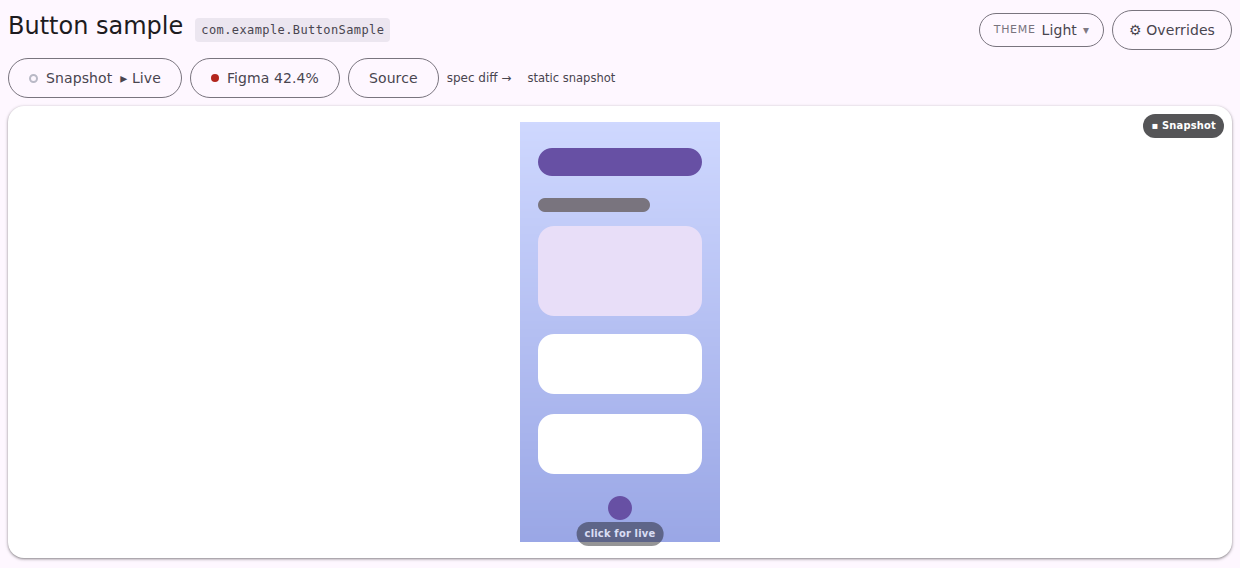
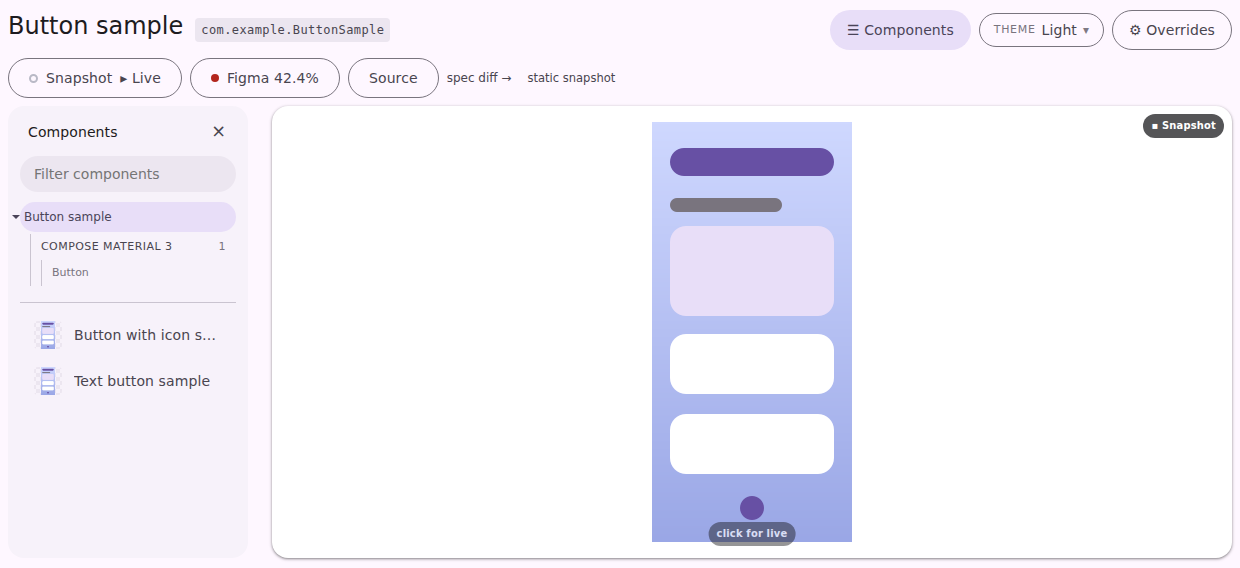
fix(serve): put a samples page's code beside the render's card, not inside it
On the samples lane the stage was one card holding both, so the page read as a
picture with a listing in the right half of its frame — two views of one thing.
They are not: the code is the subject and the render is what it produces.

The stage gives up its own surface in this lane — background, padding, shadow,
min-height — and the render element takes them. The stage stays the flex row
that puts the two side by side; it is only invisible now, so the card hugs the
render and the code sits next to it.

Applied to the render elements rather than to a new wrapper: the stage has no
inner one, and adding it would move every `.cp-stage > #cp-img` rule and the
script selectors that match them. The list covers what a samples page can paint
into — the snapshot image, the live canvas, the motion image.

Two details that are not obvious:

- the bg-theme pair (#1d1d20 / #fff) has to move onto the render element as
  well, and at the specificity those rules already use or they win. Without it
  the lane's card stayed the container colour while every other page painted a
  known field, and a light-on-transparent Wear render went unreadable in exactly
  the catalog this lane exists for;
- no `min-height` on the render. On a replaced element that stretches the
  picture to the box rather than padding around it, and the stage's 220px floor
  existed to stop an empty card collapsing, not to enlarge a render.

`before-samples.png` is the same golden through the same harness with only the
[…]

diff --git a/server/src/main/resources/ee/schimke/composeai/cli/serve/assets/serve.css b/server/src/main/resources/ee/schimke/composeai/cli/serve/assets/serve.css
@@ -3034,6 +3034,48 @@ cp-history-menu { display: contents; }
    it instead of being squeezed into a column too narrow to read a line of Kotlin in. */
 .cp-viewer[data-source-lane="side"] .cp-stage { align-items: flex-start;
   justify-content: flex-start; gap: 16px; flex-wrap: wrap; }
+/* The code sits BESIDE the render's box, not inside it. The stage is one element holding both, so
+   in this lane it gives up its own surface — background, padding, shadow, min-height — and the
+   render element takes them instead. What was a single card with a picture on the left and a
+   listing on the right becomes a picture in a card with a listing next to it, which is what the
+   two things are: the code is the subject and the render is what it produces, and framing them
+   together said they were two views of one thing.
+   The stage keeps being the flex row that puts them side by side; it is only invisible now. */
+.cp-viewer[data-source-lane="side"] .cp-stage { background: transparent; box-shadow: none;
+  padding: 0; min-height: 0; }
+/* Written at the bg-theme rules' own specificity, and after them, or they win: those paint the
+   stage #1d1d20 / #fff to give a render a known field, and in this lane that field belongs to the
+   render element rather than to the row holding it and the code. Same shape as the `data-mode`
+   pair below, for the same reason. */
+html:not(.cp-bg-transparent) .cp-viewer[data-bg-theme="dark"][data-source-lane="side"] .cp-stage,
+html:not(.cp-bg-transparent) .cp-viewer[data-bg-theme="light"][data-source-lane="side"] .cp-stage,
+html.cp-bg-transparent .cp-viewer[data-source-lane="side"] .cp-stage { background: transparent; }
+/* Applied to the render ELEMENTS rather than to a wrapper, because the stage has no inner one and
+   adding it would move every `.cp-stage > #cp-img` rule and the script selectors that match them.
+   The list is what a samples page can actually paint into: the snapshot image, the live canvas,
+   and the motion image the Motion group opens. */
+.cp-viewer[data-source-lane="side"] .cp-stage > #cp-img,
+.cp-viewer[data-source-lane="side"] .cp-stage > #cp-canvas,
+.cp-viewer[data-source-lane="side"] .cp-stage > #cp-motion-img {
+  /* No `min-height`: on a replaced element that stretches the picture to the box rather than
+     padding around it, and the stage's 220px floor existed to stop a card collapsing, not to
+     enlarge a render. A small sample gets a small card, which is the honest size for it. */
+  box-sizing: border-box; padding: 16px;
+  border-radius: var(--md-sys-shape-corner-large);
+  background: var(--md-sys-color-surface-container-low);
+  box-shadow: var(--md-sys-elevation-level1); }
+/* The same pair as the stage's own bg-theme rules above, moved onto the element that now carries
+   the field. Without these the lane's box stayed the container colour while every other page
+   painted #1d1d20 / #fff, so a light-on-transparent Wear render went unreadable in exactly the
+   catalog this lane exists for. `cp-bg-transparent` still wins, as it does there. */
+html:not(.cp-bg-transparent) .cp-viewer[data-bg-theme="dark"][data-source-lane="side"] .cp-stage > #cp-img,
+html:not(.cp-bg-transparent) .cp-viewer[data-bg-theme="dark"][data-source-lane="side"] .cp-stage > #cp-canvas,
+html:not(.cp-bg-transparent) .cp-viewer[data-bg-theme="dark"][data-source-lane="side"] .cp-stage > #cp-motion-img {
+  background: #1d1d20; }
+html:not(.cp-bg-transparent) .cp-viewer[data-bg-theme="light"][data-source-lane="side"] .cp-stage > #cp-img,
+html:not(.cp-bg-transparent) .cp-viewer[data-bg-theme="light"][data-source-lane="side"] .cp-stage > #cp-canvas,
+html:not(.cp-bg-transparent) .cp-viewer[data-bg-theme="light"][data-source-lane="side"] .cp-stage > #cp-motion-img {
+  background: #fff; }
 /* `max-width` is left at the panel's own 72ch: a line of Kotlin has a readable measure and the
    stage getting wider is not a reason to stretch one. It grows to fill the room up to that and
    stops, which is why the flex-basis is a floor rather than a share. */

diff --git a/serve-web/renders/samples-page-role/README.md b/serve-web/renders/samples-page-role/README.md
@@ -7,6 +7,7 @@ A component page under the two page roles a catalog can declare for itself
 | --- | --- |
 | `page-catalog.png` | `CATALOG` — the ordinary page: the design comparison on the control row (`Figma 42.4%`, `spec diff →`), the code behind the `Source` chip |
 | `page-samples.png` | `SAMPLES` — the comparison lanes gone, the source standing beside the render |
+| `before-samples.png` | the same `SAMPLES` page before the code moved out of the render's card, kept as the one comparison a picture of a layout actually needs |
 
 Both are `ServeWeb.viewerPage` output over the production stylesheet, from two goldens
 `ServeWebFixtureTest` builds out of **one** set of inputs — same preview, same usage source, same
@@ -17,6 +18,14 @@ nothing else.
 node shoot.mjs samples
 node shoot.mjs catalog
 ```
+
+`before-samples.png` is shot from the same golden and the same harness as `page-samples.png`, with
+only the stylesheet reverted, so the pair differs by the CSS and nothing else — not by a fixture
+that moved under it. Both were re-shot together, which is why `page-catalog.png` changed in the same
+commit despite the CSS being scoped to the samples lane: its committed copy predated the component
+drawer. Re-shot with the change stashed and again with it applied, the catalog page is byte-identical
+(`24f11780472de0f3e239e3ac34b6c3f5` both times), which is the evidence that this lane's rules reach
+only this lane.
 
 `/usage/<id>` is stubbed: the panel is filled by a fetch the harness has no server for, and an empty
 panel would show the layout without the thing it is a layout for. The snippet is a plausible sample
